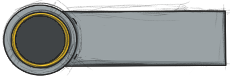
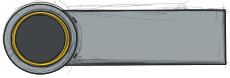
Add button color.

diff --git a/app/sprites/button.py b/app/sprites/button.py
@@ -1,23 +1,26 @@
-from pygame import image as pgimage, mouse, mixer
+from pygame import image as pgimage, mouse, mixer, draw as pgdraw
 
+from misc import colors
 from sprites.stamp import Stamp
 
 
 class Button:
     """A menu button"""
 
-    def __init__(self, labels, pos, onclick_function=None):
+    def __init__(self, labels, pos, color, onclick_function=None):
         self.labels = labels
         self.sound = mixer.Sound('./sounds/click.ogg')
         self.images = []
         for i, label in enumerate(labels):
             image1 = pgimage.load('./images/button.png')
-            image2 = pgimage.load('./images/button2.png')
+            image2 = pgimage.load('./images/button.png')
+            pgdraw.circle(image2, colors[color], (40, image1.get_height()/2),
+                          24)
 
             stamp = Stamp(label, 32, 'dark-grey',
                           (90, image1.get_height()/2), 'left')
             stamp.draw(image1)
-            stamp.set_txt(label, 'red')
+            stamp.set_txt(label, color)
             stamp.draw(image2)
 
             self.images.append(image1)

diff --git a/app/game.py b/app/game.py
@@ -2,7 +2,7 @@ import pygame
 from random import randint, choice
 
 from factory import Factory
-from info import info
+from misc import info
 from sprites.cursor import Cursor
 from sprites.button import Button
 from sprites.liquid import Liquid
@@ -78,9 +78,11 @@ class Game:
         self.cursor = Cursor(self.board_offset)
         self.factory = Factory()
 
-        self.flood_btn = Button(['FLOOD'], (140, 50), self.flood_now)
-        self.giveup_btn = Button(['GIVE-UP'], (140, 150), self.give_up)
-        self.continue_btn = Button(['CONTINUE'], (140, 50), self.next_step)
+        self.flood_btn = Button(['FLOOD'], (140, 50), 'light-blue',
+                                self.flood_now)
+        self.giveup_btn = Button(['GIVE-UP'], (140, 150), 'red', self.give_up)
+        self.continue_btn = Button(['CONTINUE'], (140, 50), 'green',
+                                   self.next_step)
 
         self.score = Stamp(0, 40, 'green', (1673, 177))
 

diff --git a/app/sprites/stamp.py b/app/sprites/stamp.py
@@ -1,19 +1,11 @@
 from pygame import font as pgfont
+from misc import colors
 
 
 class Stamp:
-    COLORS = {
-        'red': (194, 78, 16),
-        'green': (85, 167, 20),
-        'light-blue': (13, 167, 172),
-        'orange': (200, 125, 31),
-        'dark-grey': (46, 52, 53),
-        'black': (20, 20, 20)
-    }
-
     def __init__(self, txt, size, color='black', pos=(0, 0), align='center'):
         self.font = pgfont.Font('./fonts/TheConfessionRegular-YBpv.ttf', size)
-        self.color = self.COLORS[color]
+        self.color = colors[color]
         self.pos = pos
         self.align = align
 
@@ -27,7 +19,7 @@ class Stamp:
         if color == 'default':
             color = self.color
         else:
-            color = self.COLORS[color]
+            color = colors[color]
 
         self.img = self.font.render(self.txt, True, color)
         self.rect = self.img.get_rect()

diff --git a/app/menu.py b/app/menu.py
@@ -15,11 +15,11 @@ class Menu:
                                     pygame.SRCALPHA, 32)
         self.music_btn = Button(
             ['MUSIC ON', 'MUSIC OFF'], (self.screen.get_width()/2, 800),
-            function_music)
+            'light-blue', function_music)
         self.play_btn = Button(
-            ['PLAY'], (self.screen.get_width()/2, 880), self.play)
+            ['PLAY'], (self.screen.get_width()/2, 880), 'green', self.play)
         self.quit_btn = Button(
-            ['QUIT'], (self.screen.get_width()/2, 960), function_quit)
+            ['QUIT'], (self.screen.get_width()/2, 960), 'red', function_quit)
 
         self.title = Stamp("PLUMB'IT", 72, 'red',
                            (self.screen.get_width()/2, 150))

diff --git a/app/record.py b/app/record.py
@@ -16,7 +16,7 @@ class Record:
         self.enter_btn = Button(
             ['ENTER'],
             (self.screen.get_width()/2, self.screen.get_height()/2 + 100),
-            self.save_score
+            'green', self.save_score
         )
         self.title = Stamp('', 48, 'light-blue',
                            (self.screen.get_width()/2,

diff --git a/app/misc.py b/app/misc.py
@@ -11,3 +11,12 @@ info = [
     'The wrench rotate a pipe once.',
     'The bomb is useful to clear obstacles.'
 ]
+
+colors = {
+    'red': (194, 78, 16),
+    'green': (85, 167, 20),
+    'light-blue': (13, 167, 172),
+    'orange': (200, 125, 31),
+    'dark-grey': (46, 52, 53),
+    'black': (20, 20, 20)
+}
